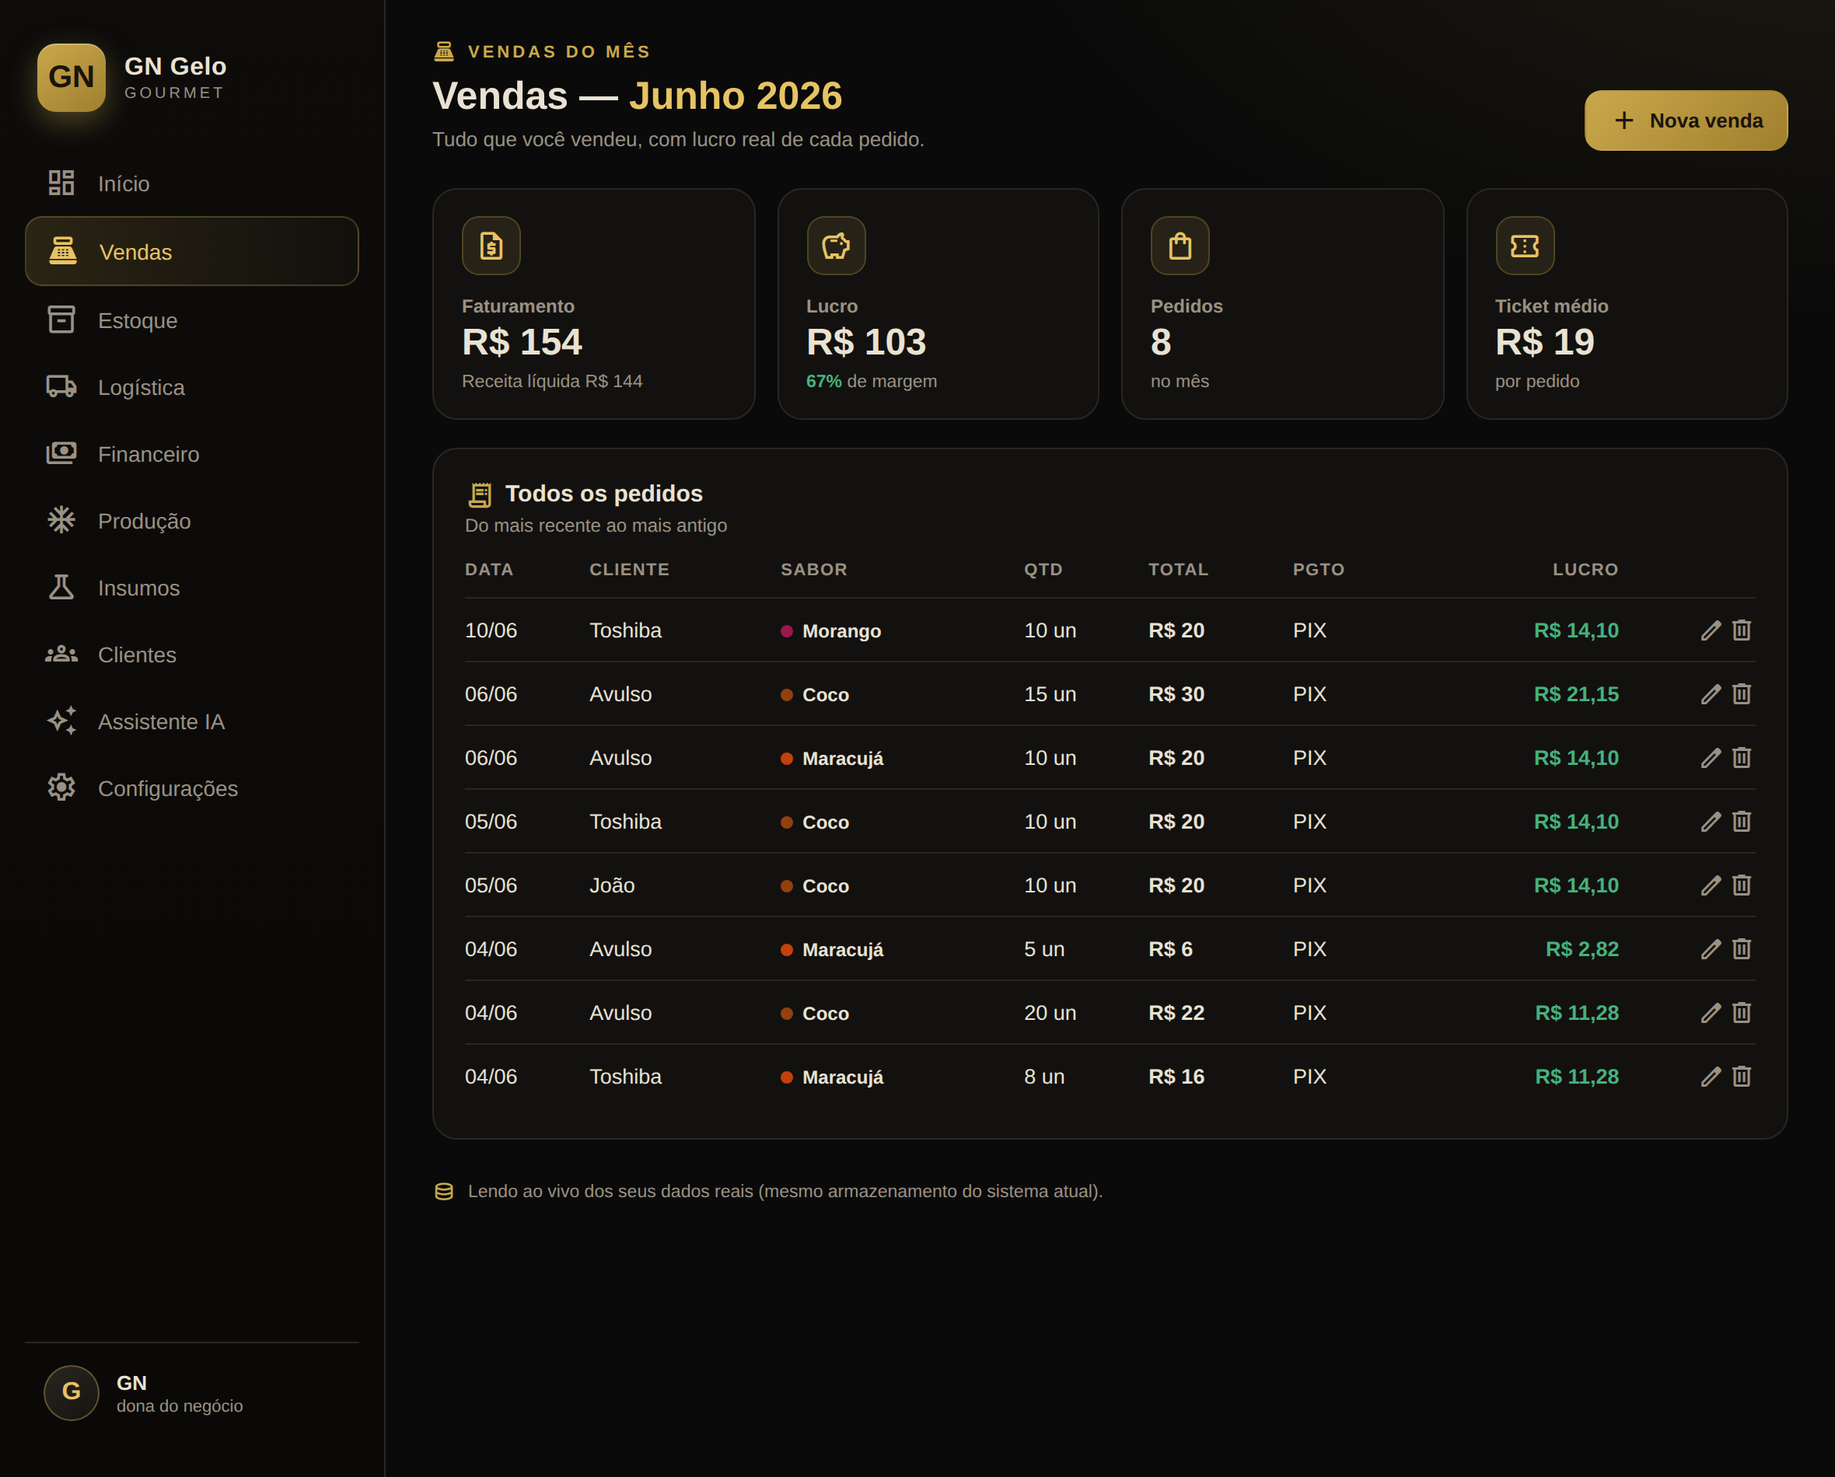
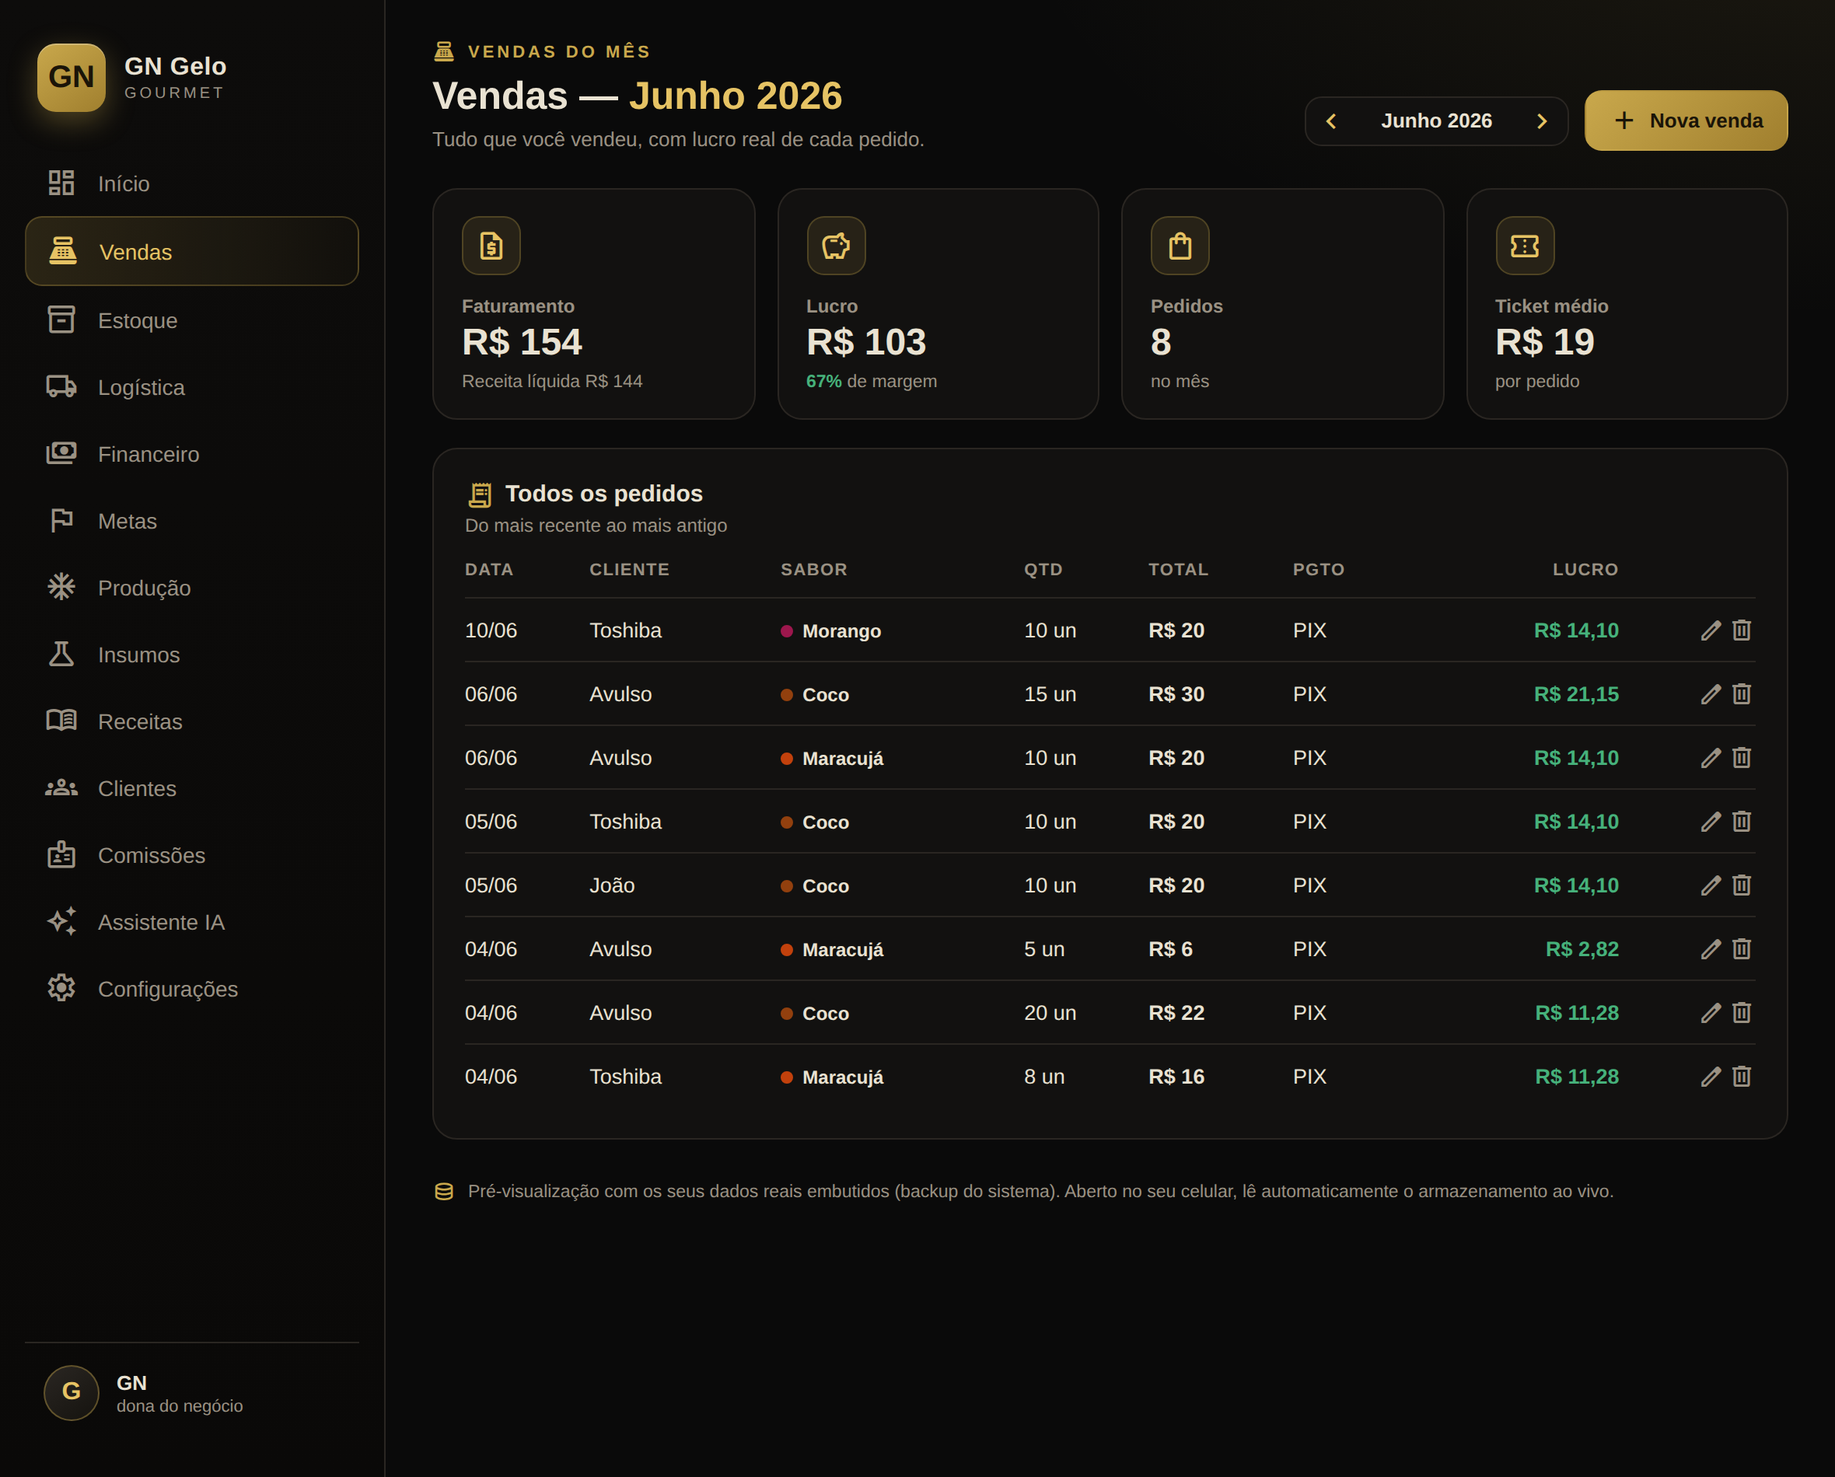
Bloco 2: seletor de mes global + backup de dados + frete na entrega
- Seletor de mes (chevron </>) no topo de Inicio, Vendas, Producao, Financeiro,
  Metas e Comissoes; muda o mes em todas as telas (var MES_SEL).
- Backup: baixar (JSON de tudo) e restaurar (importar arquivo) em Configuracoes.
- Frete na entrega: campo de distancia (km) calcula frete = km x R$/km (parametro),
  grava e mostra na lista de entregas.
- Fonte regenerada (chevron_left/right, download, upload, backup). HTML 137KB.

Claude-Session: https://claude.ai/code/session_01RocrFdSgqpqjfRy7x3VDmm

diff --git a/preview-dashboard-premium.html b/preview-dashboard-premium.html
@@ -10,7 +10,7 @@
 <!-- Mapa real (OpenStreetMap via Leaflet) — grátis. Precisa de internet; offline cai no mapa-reserva. -->
 <link rel="stylesheet" href="https://cdn.jsdelivr.net/npm/leaflet@1.9.4/dist/leaflet.css" />
 <script src="https://cdn.jsdelivr.net/npm/leaflet@1.9.4/dist/leaflet.js"></script>
[2 lines of base64/hex data omitted]
 <style>
   :root{
     --bg:#0A0A0A; --panel:#121110; --panel2:#181613; --line:#2a2622;
@@ -198,7 +198,7 @@
         <h1>Olá, GN. Seu lucro do mês é <b id="h-lucro">—</b></h1>
         <p id="h-sub">Carregando seus números reais…</p>
       </div>
-      <div class="chip"><span class="sym">calendar_month</span> <span id="mesLabel">—</span></div>
+      <div id="dash-mesnav"></div>
     </div>
 
     <!-- HERO -->
@@ -286,7 +286,8 @@
         <h1>Vendas — <b id="vv-mes">—</b></h1>
         <p>Tudo que você vendeu, com lucro real de cada pedido.</p>
       </div>
-      <div class="chip" style="background:linear-gradient(135deg,var(--gold),#a07f2e);color:#1a1408;border-color:transparent;cursor:pointer" onclick="abrirVenda()"><span class="sym" style="color:#1a1408">add</span> Nova venda</div>
+      <div style="display:flex;gap:10px;align-items:center"><div id="vv-mesnav"></div>
+      <div class="chip" style="background:linear-gradient(135deg,var(--gold),#a07f2e);color:#1a1408;border-color:transparent;cursor:pointer" onclick="abrirVenda()"><span class="sym" style="color:#1a1408">add</span> Nova venda</div></div>
     </div>
     <div class="kpis">
       <div class="kpi"><div class="ic"><span class="sym">request_quote</span></div><div class="k-lbl">Faturamento</div><div class="k-val" id="vv-fat">—</div><div class="k-foot" id="vv-liq">—</div></div>
@@ -370,7 +371,7 @@
       </div>
       <div style="display:flex;gap:10px;align-items:center">
         <div class="chip" style="background:linear-gradient(135deg,var(--gold),#a07f2e);color:#1a1408;border-color:transparent;cursor:pointer" onclick="abrirGasto()"><span class="sym" style="color:#1a1408">add</span> Novo gasto</div>
-        <div class="chip"><span class="sym">calendar_month</span> <span id="fi-chip">—</span></div>
+        <div id="fi-mesnav"></div>
       </div>
     </div>
     <div class="kpis">
@@ -401,7 +402,8 @@
         <h1>Produção — <b id="pr-mes">—</b></h1>
         <p>O que você fabricou e quanto custou de verdade.</p>
       </div>
-      <div class="chip" style="background:linear-gradient(135deg,var(--gold),#a07f2e);color:#1a1408;border-color:transparent;cursor:pointer" onclick="abrirProducao()"><span class="sym" style="color:#1a1408">add</span> Nova produção</div>
+      <div style="display:flex;gap:10px;align-items:center"><div id="pr-mesnav"></div>
+      <div class="chip" style="background:linear-gradient(135deg,var(--gold),#a07f2e);color:#1a1408;border-color:transparent;cursor:pointer" onclick="abrirProducao()"><span class="sym" style="color:#1a1408">add</span> Nova produção</div></div>
     </div>
     <div class="kpis">
       <div class="kpi"><div class="ic"><span class="sym">factory</span></div><div class="k-lbl">Produzido no mês</div><div class="k-val" id="pr-tot">—</div><div class="k-foot">gelos saborizados</div></div>
@@ -460,7 +462,8 @@
         <h1>Meta do mês: <b id="mt-pct">—</b> atingida</h1>
         <p id="mt-sub">—</p>
       </div>
-      <div class="chip" style="background:linear-gradient(135deg,var(--gold),#a07f2e);color:#1a1408;border-color:transparent;cursor:pointer" onclick="abrirMeta()"><span class="sym" style="color:#1a1408">tune</span> Definir metas</div>
+      <div style="display:flex;gap:10px;align-items:center"><div id="mt-mesnav"></div>
+      <div class="chip" style="background:linear-gradient(135deg,var(--gold),#a07f2e);color:#1a1408;border-color:transparent;cursor:pointer" onclick="abrirMeta()"><span class="sym" style="color:#1a1408">tune</span> Definir metas</div></div>
     </div>
     <div class="hero" style="margin-bottom:16px">
       <div style="position:relative">
@@ -496,7 +499,8 @@
         <h1>A pagar: <b id="cm-total">—</b></h1>
         <p>Quanto cada vendedor vendeu e quanto recebe de comissão.</p>
       </div>
-      <div class="chip" style="background:linear-gradient(135deg,var(--gold),#a07f2e);color:#1a1408;border-color:transparent;cursor:pointer" onclick="abrirVendedor()"><span class="sym" style="color:#1a1408">person_add</span> Novo vendedor</div>
+      <div style="display:flex;gap:10px;align-items:center"><div id="cm-mesnav"></div>
+      <div class="chip" style="background:linear-gradient(135deg,var(--gold),#a07f2e);color:#1a1408;border-color:transparent;cursor:pointer" onclick="abrirVendedor()"><span class="sym" style="color:#1a1408">person_add</span> Novo vendedor</div></div>
     </div>
     <div class="kpis">
       <div class="kpi"><div class="ic"><span class="sym">payments</span></div><div class="k-lbl">Total a pagar</div><div class="k-val" id="cm-k-tot">—</div><div class="k-foot">no mês</div></div>
@@ -618,6 +622,15 @@
       </div>
       <button class="btn-gold" style="margin-top:6px" onclick="salvarParams()">Salvar parâmetros</button>
     </div>
+    <div class="card" style="margin-top:16px">
+      <h3><span class="sym">backup</span>Backup dos dados</h3>
+      <div class="csub">Guarde uma cópia de tudo, ou restaure de um arquivo. (Seus dados ficam no aparelho.)</div>
+      <div style="display:flex;gap:12px;flex-wrap:wrap;margin-top:12px">
+        <button class="btn-gold" style="width:auto;flex:1;min-width:180px" onclick="baixarBackup()"><span class="sym" style="font-size:17px;vertical-align:-4px">download</span> Baixar backup</button>
+        <button class="btn-ghost" style="width:auto;flex:1;min-width:180px;margin:0" onclick="document.getElementById('bk-file').click()"><span class="sym" style="font-size:16px;vertical-align:-3px">upload</span> Restaurar backup</button>
+        <input type="file" id="bk-file" accept=".json,application/json" style="display:none" onchange="restaurarBackup(this)">
+      </div>
+    </div>
    </div><!-- /view-config -->
 
     <div class="foot-note">
@@ -724,6 +737,10 @@
       <div class="f-grid2">
         <div class="f-row"><label>Horário (ETA)</label><input class="f-in" id="e-eta" placeholder="Ex: 14:30" value="14:00"></div>
         <div class="f-row"><label>Itens (un)</label><input type="number" class="f-in" id="e-itens" min="1" value="50"></div>
+      </div>
+      <div class="f-grid2">
+        <div class="f-row"><label>Distância (km)</label><input type="number" step="0.1" class="f-in" id="e-km" value="0" oninput="calcFrete()"></div>
+        <div class="f-row"><label>Frete</label><input class="f-in" id="e-frete" value="R$ 0,00" readonly style="color:var(--gold-soft);font-weight:700"></div>
       </div>
       <div class="f-row"><label>Status</label>
         <select class="f-in" id="e-status"><option>Aguardando carga</option><option>Pendente</option><option>Em rota</option><option>Concluída</option></select></div>
@@ -907,7 +924,7 @@ function render(){
   const ticket=nV?fat/nV:0;
 
   const mesNome=MESES[parseInt(mes)-1]+" "+ano;
-  document.getElementById("mesLabel").textContent=mesNome;
+  fillMesNav("dash-mesnav");
   document.getElementById("ey").textContent="Painel de "+MESES[parseInt(mes)-1];
   document.getElementById("h-lucro").textContent=R0(luc);
   document.getElementById("h-sub").textContent=`${nV} vendas · faturamento de ${R0(fat)} · margem de ${margem}%`;
@@ -996,8 +1013,15 @@ function render(){
 
 /* ===== Helpers compartilhados ===== */
 const fmtD=s=>{const p=(s||"").split("-");return p.length===3?p[2]+"/"+p[1]:s;};
-function mesCtx(){const vendas=getV();const m=mesAtivo(vendas);const[ano,mes]=m.split("-");
+var MES_SEL=null; // mês escolhido no seletor (null = automático)
+function mesCtx(){const m=MES_SEL||mesAtivo(getV());const[ano,mes]=m.split("-");
   return{m,ano,mes,nome:MESES[parseInt(mes)-1]+" "+ano,mesNome:MESES[parseInt(mes)-1]};}
+function mudarMes(d){let[a,mo]=mesCtx().m.split("-").map(Number);mo+=d;if(mo<1){mo=12;a--;}if(mo>12){mo=1;a++;}MES_SEL=a+"-"+String(mo).padStart(2,"0");rerenderAll();}
+function mesNavHTML(){const c=mesCtx();return `<div style="display:flex;align-items:center;gap:4px;background:var(--panel);border:1px solid var(--line);border-radius:11px;padding:5px 6px">
+  <span class="sym" style="cursor:pointer;color:var(--gold-soft);font-size:20px" onclick="mudarMes(-1)" title="Mês anterior">chevron_left</span>
+  <span style="min-width:108px;text-align:center;font-size:13px;font-weight:600">${c.nome}</span>
+  <span class="sym" style="cursor:pointer;color:var(--gold-soft);font-size:20px" onclick="mudarMes(1)" title="Próximo mês">chevron_right</span></div>`;}
+function fillMesNav(id){const e=document.getElementById(id);if(e)e.innerHTML=mesNavHTML();}
 const T=(id,v)=>{const e=document.getElementById(id);if(e)e.textContent=v;};
 const tagSabor=k=>`<span class="tag"><span class="dot" style="background:${CC[k]||'#888'}"></span>${SB[k]||k}</span>`;
 
@@ -1007,7 +1031,7 @@ function renderVendas(){
   const vMes=getV().filter(v=>(v.data||"").startsWith(m));
   const fat=vMes.reduce((a,v)=>a+(v.bruto||0),0), luc=vMes.reduce((a,v)=>a+(v.lucro||0),0),
         liq=vMes.reduce((a,v)=>a+(v.liq||0),0), n=vMes.length;
-  T("vv-mes",nome); T("vv-fat",R0(fat)); T("vv-liq","Receita líquida "+R0(liq));
+  T("vv-mes",nome); fillMesNav("vv-mesnav"); T("vv-fat",R0(fat)); T("vv-liq","Receita líquida "+R0(liq));
   T("vv-luc",R0(luc)); T("vv-marg",(fat?Math.round(luc/fat*100):0)+"%");
   T("vv-n",n); T("vv-tk",R0(n?fat/n:0));
   const rows=[...vMes].sort((a,b)=>(b.data||"").localeCompare(a.data||""));
@@ -1046,7 +1070,7 @@ function renderFinanceiro(){
   const mkt=gMes.filter(g=>g.tipo==="Custo fixo"&&(g.cat||"").toLowerCase()==="marketing").reduce((a,g)=>a+(g.valor||0),0);
   const outrosFixos=fixos-mkt;
   const saidas=cpv+fixos, resultado=liq-saidas, marg=fat?Math.round(luc/fat*100):0;
-  T("fi-mes",nome); T("fi-chip",nome);
+  T("fi-mes",nome); fillMesNav("fi-mesnav");
   T("fi-in",R0(liq)); T("fi-out",R0(saidas));
   const resEl=document.getElementById("fi-res"); resEl.textContent=R0(resultado);
   resEl.style.color=resultado>=0?"var(--green)":"var(--red)";
@@ -1072,7 +1096,7 @@ function renderProducao(){
   const {m,nome}=mesCtx();
   const pMes=getPr().filter(p=>(p.data||"").startsWith(m));
   const tot=pMes.reduce((a,p)=>a+(p.qtd||0),0), cus=pMes.reduce((a,p)=>a+(p.qtd||0)*(p.custoPorUnid||0),0);
-  T("pr-mes",nome); T("pr-tot",tot.toLocaleString("pt-BR")); T("pr-cus",R0(cus));
+  T("pr-mes",nome); fillMesNav("pr-mesnav"); T("pr-tot",tot.toLocaleString("pt-BR")); T("pr-cus",R0(cus));
   T("pr-med",R(tot?cus/tot:0)); T("pr-n",pMes.length);
   document.getElementById("pr-tab").innerHTML=[...pMes].sort((a,b)=>(b.data||"").localeCompare(a.data||"")).map(p=>`
     <tr><td>${fmtD(p.data)}</td><td>${tagSabor(p.sabor)}</td><td>${p.qtd} un</td>
@@ -1270,7 +1294,7 @@ function renderLogistica(){
       <span style="width:34px;height:34px;border-radius:9px;display:grid;place-items:center;background:${cor}1a;border:1px solid ${cor}44;color:${cor};font-weight:800;font-size:14px">${num?num:`<span class="sym" style="font-size:18px">${ST_IC[e.status]||'place'}</span>`}</span>
       <div style="flex:1;min-width:0">
         <div style="font-size:13.5px;font-weight:700">${e.cliente}</div>
-        <div style="font-size:11.5px;color:var(--muted)">${e.rota} · ${e.itens} un</div>
+        <div style="font-size:11.5px;color:var(--muted)">${e.rota} · ${e.itens} un${e.frete?` · frete ${R(e.frete)}`:''}</div>
       </div>
       <div style="text-align:right">
         <div onclick="avancarEntrega('${e.id}')" title="${prox?'Avançar status':'Entregue'}" style="font-size:12px;font-weight:700;color:${cor};cursor:${prox?'pointer':'default'}">${e.status}${prox?' ▸':''}</div>
@@ -1345,6 +1369,25 @@ function salvarParams(){
     fkm:+document.getElementById("pa-fkm").value||0
   });
   set("params",p); rerenderAll(); alert("Parâmetros salvos. As contas já usam os novos valores.");
+}
+/* ===== BACKUP DE DADOS ===== */
+function baixarBackup(){
+  const dados={}; for(let i=0;i<localStorage.length;i++){const k=localStorage.key(i); if(k&&k.indexOf("gng_")===0)dados[k]=localStorage.getItem(k);}
+  const blob=new Blob([JSON.stringify({app:"GN Gelo",data:new Date().toISOString(),dados})],{type:"application/json"});
+  const a=document.createElement("a"); a.href=URL.createObjectURL(blob);
+  a.download="gngelo-backup-"+new Date().toISOString().slice(0,10)+".json"; a.click();
+  setTimeout(()=>URL.revokeObjectURL(a.href),2000);
+}
+function restaurarBackup(input){
+  const file=input.files&&input.files[0]; if(!file)return;
+  const fr=new FileReader();
+  fr.onload=()=>{ try{
+    const j=JSON.parse(fr.result); const d=j.dados||j;
+    if(!confirm("Restaurar este backup? Os dados atuais serão substituídos."))return;
+    Object.keys(d).forEach(k=>{ if(k.indexOf("gng_")===0) localStorage.setItem(k,d[k]); });
+    MES_SEL=null; rotaOtim=null; rerenderAll(); alert("✅ Backup restaurado!");
+  }catch(e){ alert("Arquivo de backup inválido."); } input.value=""; };
+  fr.readAsText(file);
 }
 
 /* ===== REGISTRAR (venda/produção/gasto) — multi-itens, grava de verdade ===== */
@@ -1662,9 +1705,11 @@ function abrirEntrega(){
   document.getElementById("e-end").value="";
   document.getElementById("e-eta").value="14:00";
   document.getElementById("e-itens").value=50;
+  document.getElementById("e-km").value=0;
   document.getElementById("e-status").value="Aguardando carga";
-  document.getElementById("modal-entrega").style.display="flex";
+  calcFrete(); document.getElementById("modal-entrega").style.display="flex";
 }
+function calcFrete(){const km=+document.getElementById("e-km").value||0; const fr=km*(PARAMS().fkm||0); const el=document.getElementById("e-frete"); if(el)el.value=R(fr); return fr;}
 function editarEntrega(id){
   const e=getEnt().find(x=>x.id===id); if(!e)return;
   EDIT_E=id;
@@ -1674,8 +1719,9 @@ function editarEntrega(id){
   document.getElementById("e-end").value=e.endereco||"";
   document.getElementById("e-eta").value=e.eta||"";
   document.getElementById("e-itens").value=e.itens||0;
+  document.getElementById("e-km").value=e.km||0;
   document.getElementById("e-status").value=e.status||"Aguardando carga";
-  document.getElementById("modal-entrega").style.display="flex";
+  calcFrete(); document.getElementById("modal-entrega").style.display="flex";
 }
 async function geocode(q){
   try{
@@ -1692,17 +1738,19 @@ async function salvarEntrega(){
     const ent=get("entregas",null)||SEED.entregas.slice();
     const idx=ent.findIndex(x=>x.id===EDIT_E); if(idx<0){EDIT_E=null;fecharModal();return;}
     const old=ent[idx];
+    const km=+document.getElementById("e-km").value||0;
     ent[idx]={...old,cliente,rota:document.getElementById("e-rota").value||old.rota,endereco,
       eta:document.getElementById("e-eta").value||"—",status:document.getElementById("e-status").value,
-      itens:+document.getElementById("e-itens").value||0};
+      itens:+document.getElementById("e-itens").value||0,km,frete:km*(PARAMS().fkm||0)};
     if(endereco && endereco!==old.endereco){ const g=await geocode(endereco); if(g){ent[idx].lat=g[0];ent[idx].lng=g[1];} }
     set("entregas",ent); EDIT_E=null; fecharModal(); rerenderAll(); show("logistica"); return;
   }
   const ent=get("entregas",null)||SEED.entregas.slice();
   const n=ent.filter(e=>/^#ORD-\d+$/.test(e.id||"")).length;
+  const km=+document.getElementById("e-km").value||0;
   const nova={id:"#ORD-"+(8947+n),cliente,rota:document.getElementById("e-rota").value||"Rota a definir",
     endereco,eta:document.getElementById("e-eta").value||"—",status:document.getElementById("e-status").value,
-    itens:+document.getElementById("e-itens").value||0,
+    itens:+document.getElementById("e-itens").value||0,km,frete:km*(PARAMS().fkm||0),
     x:15+Math.round(Math.random()*70),y:15+Math.round(Math.random()*70)};
   if(endereco){ const g=await geocode(endereco); if(g){nova.lat=g[0];nova.lng=g[1];} }
   ent.push(nova); set("entregas",ent); fecharModal(); rerenderAll(); show("logistica");
@@ -1769,7 +1817,7 @@ function renderComissoes(){
   const lista=Object.values(porV).map(v=>({...v,comissao:v.fat*(v.com||0)/100})).sort((a,b)=>b.comissao-a.comissao);
   const total=lista.reduce((a,v)=>a+v.comissao,0);
   const ativos=lista.filter(v=>v.n>0);
-  T("cm-mes",mesNome); T("cm-total",R0(total)); T("cm-k-tot",R0(total));
+  T("cm-mes",mesNome); fillMesNav("cm-mesnav"); T("cm-total",R0(total)); T("cm-k-tot",R0(total));
   T("cm-k-n",ativos.length); T("cm-k-dir",R0(direta));
   const top=ativos[0]; T("cm-k-top",top?R0(top.comissao):"R$ 0"); T("cm-k-topn",top?top.nome:"—");
   document.getElementById("cm-tab").innerHTML=lista.map(v=>`
@@ -1828,7 +1876,7 @@ function renderMetas(){
   const fat=vMes.reduce((a,v)=>a+(v.bruto||0),0), luc=vMes.reduce((a,v)=>a+(v.lucro||0),0), nv=vMes.length;
   const meta=getMeta(m);
   const pct=meta.fat>0?Math.min(100,fat/meta.fat*100):0;
-  T("mt-mes",mesNome); T("mt-pct",Math.round(pct)+"%");
+  T("mt-mes",mesNome); fillMesNav("mt-mesnav"); T("mt-pct",Math.round(pct)+"%");
   T("mt-sub",`Faltam ${R0(Math.max(0,meta.fat-fat))} para bater a meta de faturamento.`);
   document.getElementById("mt-fat").innerHTML=`<small>R$</small>${fat.toLocaleString("pt-BR",{minimumFractionDigits:2,maximumFractionDigits:2})}`;
   T("mt-fatmeta",R0(meta.fat));
